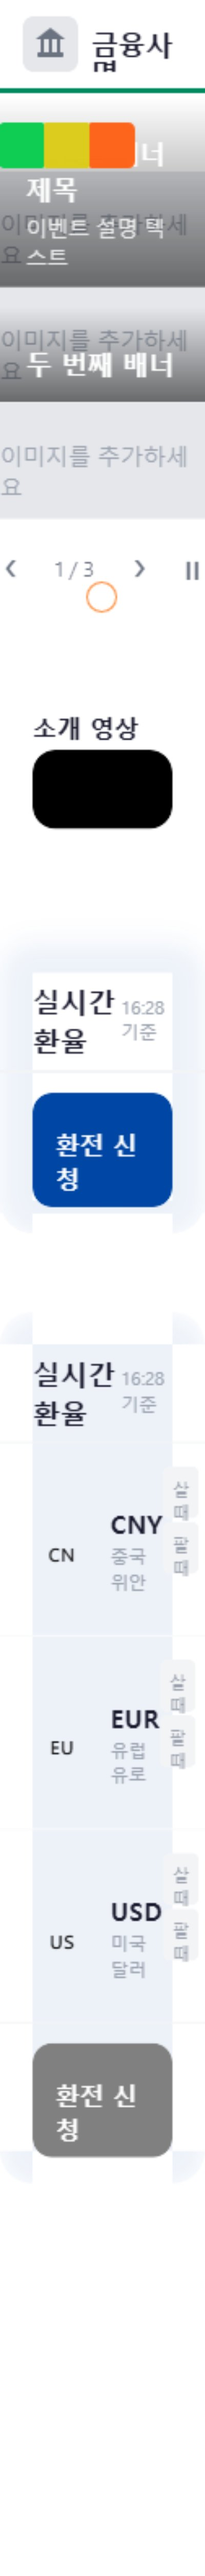
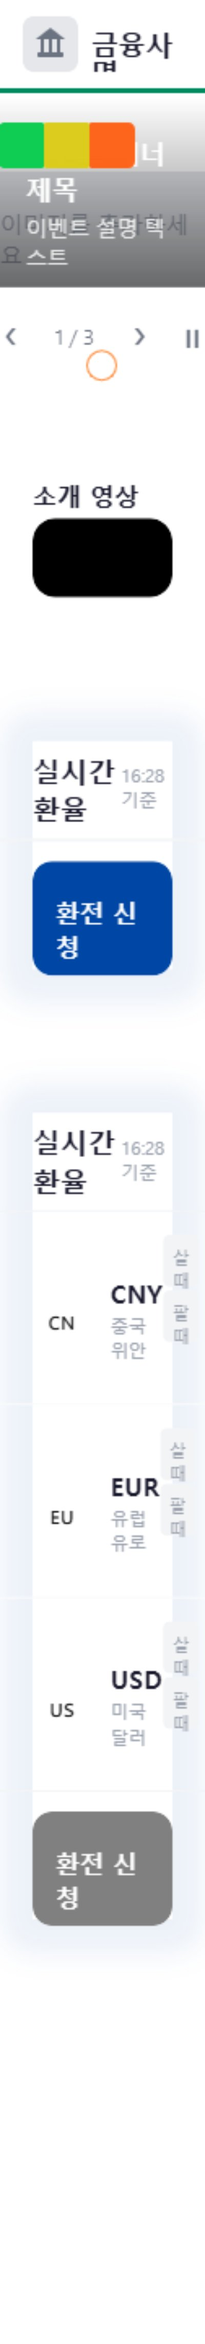
[CMS] 페이지 저장: pageId=system-1775698448000, userId=system

Changed region(s): [[0.0, 0.0, 1.0, 0.8415]]

diff --git a/public/uploads/pages/system-1775698448000.html b/public/uploads/pages/system-1775698448000.html
@@ -16,15 +16,8 @@
                             <p data-banner-overlay-desc="" style="margin:0;font-size:13px;color:rgba(255,255,255,0.85);">이벤트 설명 텍스트</p>
                         </div>
                     </a></div>
-                <div data-banner-item="" data-banner-idx="1" style="flex-shrink:0;width:100%;"><a href="#" style="display:block;position:relative;text-decoration:none;">
-                        <div style="width: 100%; aspect-ratio: 16 / 9; background: rgb(229, 231, 235);" class="flex justify-center items-center"><span style="color:#9CA3AF;font-size:14px;">이미지를 추가하세요</span></div>
-                        <div data-banner-overlay="" style="position:absolute;bottom:0;left:0;right:0;padding:16px;background:linear-gradient(to top,rgba(0,0,0,0.55) 0%,transparent 100%);">
-                            <p data-banner-overlay-title="" style="margin:0 0 4px;font-size:16px;font-weight:700;color:#fff;">두 번째 배너</p>
-                        </div>
-                    </a></div>
-                <div data-banner-item="" data-banner-idx="2" style="flex-shrink:0;width:100%;"><a href="#" style="display:block;position:relative;text-decoration:none;">
-                        <div style="width: 100%; aspect-ratio: 16 / 9; background: rgb(229, 231, 235);" class="flex justify-center items-center"><span style="color:#9CA3AF;font-size:14px;">이미지를 추가하세요</span></div>
-                    </a></div>
+                <div data-banner-item="" data-banner-idx="1" style="flex-shrink:0;width:100%;"></div>
+                <div data-banner-item="" data-banner-idx="2" style="flex-shrink:0;width:100%;"></div>
             </div>
             <div data-banner-pagination="" style="gap: 8px; padding: 8px 0px;" class="flex justify-center items-center"><button data-banner-prev="" style="background:none;border:none;cursor:pointer;padding:4px 8px;font-size:14px;color:#6B7280;">❮</button><span data-banner-indicator="" style="font-size: 13px; color: rgb(107, 114, 128); min-width: 40px;" class="text-center">1 / 3</span><button data-banner-next="" style="background:none;border:none;cursor:pointer;padding:4px 8px;font-size:14px;color:#6B7280;">❯</button><button data-banner-pause="" style="background:none;border:none;cursor:pointer;padding:4px 8px;font-size:16px;color:#6B7280;">❙❙</button></div>
             <script>
